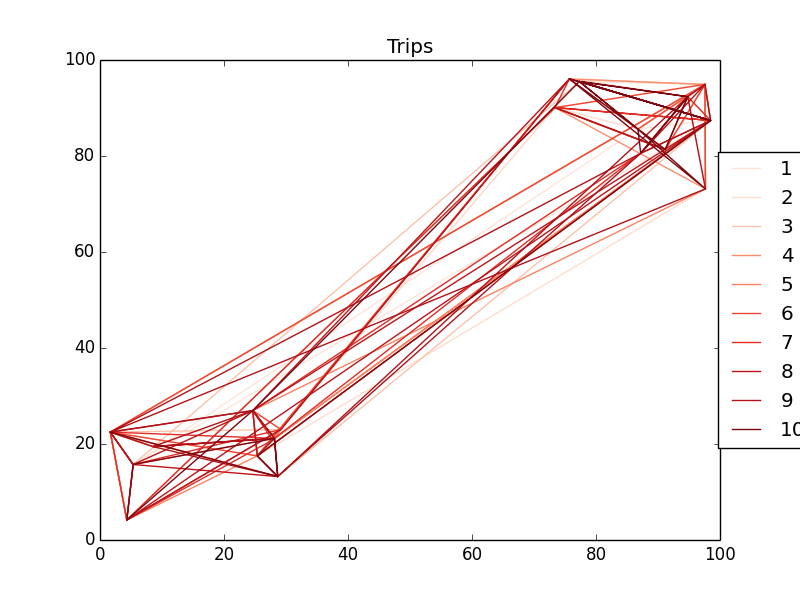
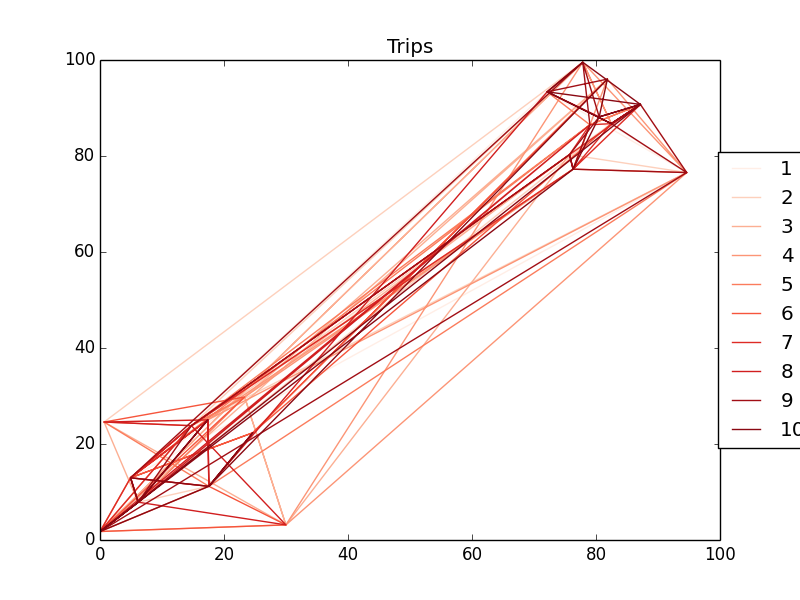
optimization function 잘못됨

Changed region(s): [[0.125, 0.09, 0.9062, 0.9], [0.5938, 0.57, 0.625, 0.6], [0.5625, 0.6, 0.5938, 0.63]]

diff --git a/DataGenerator.py b/DataGenerator.py
@@ -107,15 +107,28 @@ class DataGenerator:
                     return [False, 0]
                 else : # shuttle not late / don't care
                     slack += (destTime - t)
+
+        if t == t0 : t0 -= 1
         return [True, slack/(t-t0)]
 
     def getCost(self, schedule):
         totSlack = self.n
+        reqs = schedule.rejects[:]
         for shuttle in schedule.shuttles :
+            travle = (shuttle.before + shuttle.trip)
+            for r in travle :
+                ar = abs(r)
+                if travle.index(ar) >= travle.index(-ar):
+                    return 2.0 * self.n
+            reqs += travle
+
             ableS = self.shuttleAbleS(shuttle)
             if not ableS[0] :
                 return 2.0*self.n
             totSlack += ableS[1]
+
+        for r in reqs :
+            if reqs.count(r) != 1 : return 2.0*self.n + 0.01*abs(r)
 
         return len(schedule.rejects) + self.n/totSlack
 
@@ -157,6 +170,8 @@ class DataGenerator:
                         continue # insert is failed
                     else :
                         shuttles[jdx].trip = copy.deepcopy(ntrip)
+                        shuttle.trip.remove(r)
+                        shuttle.trip.remove(-r)
                         mark += [r, -r]
                         break
 
@@ -356,14 +371,12 @@ class DataGenerator:
 
         # optimize
         if opt :
-            re = self.optimize(routes, t)
-            while re : re = self.optimize(routes, t)
+            self.optimize(routes, t)
             for r in schedule.rejects:
                 for i in range(len(routes)):
                     k = self.mergeTrips(routes[i].trip, [r, -r])
                     if k != None:
                         routes[i].trip = k[:]
-                        schedule.rejects.remove(r)
                         break
         return Schedule(routes, schedule.rejects)
 
@@ -427,14 +440,12 @@ class DataGenerator:
 
         # optimize
         if opt :
-            re = self.optimize(routes, t)
-            while re : re = self.optimize(routes, t)
+            self.optimize(routes, t)
             for r in schedule.rejects:
                 for i in range(len(routes)):
                     k = self.mergeTrips(routes[i].trip, [r, -r])
                     if k != None:
                         routes[i].trip = k[:]
-                        schedule.rejects.remove(r)
                         break
         return Schedule(routes, schedule.rejects)
 
@@ -447,7 +458,7 @@ class DataGenerator:
         # GA operating is already done, respect previous schedule
         already = []
         for shuttle in schedule.shuttles:
-            already += shuttle.trip + shuttle.before
+            already += (shuttle.trip + shuttle.before)
 
         reqs = list(enumerate(self.requests[:]))
         requests = list(filter(lambda req: ((req[0] + 1) not in already) and (req[1][4] <= t), reqs))
@@ -500,14 +511,12 @@ class DataGenerator:
 
         # optimize
         if opt :
-            re = self.optimize(routes, t)
-            while re : re = self.optimize(routes, t)
+            self.optimize(routes, t)
             for r in schedule.rejects:
                 for i in range(len(routes)):
                     k = self.mergeTrips(routes[i].trip, [r, -r])
                     if k != None:
                         routes[i].trip = k[:]
-                        schedule.rejects.remove(r)
                         break
         return Schedule(routes, schedule.rejects)
 
@@ -556,22 +565,29 @@ class DataGenerator:
                         genes[j].mutation(i1, i2)
 
                 # Optimization
-                for j in range(Ngene):
-                    if self.getCost(genes[j]) < INF:
-                        genes[j] = self.optimizeGA(genes[j])
+                for j in range(Sgene, Ngene):
+                    self.optimize(genes[j].shuttles, 0)
+
+                    for r in genes[j].rejects:
+                        for idx in range(len(genes[j].shuttles)):
+                            k = self.mergeTrips(genes[j].shuttles[idx].trip, [r, -r])
+                            if k != None:
+                                genes[j].shuttles[idx].trip = k[:]
+                                break
 
                 genes.sort(key=lambda gene: self.getCost(gene))
-
                 for j in range(Ngene - 1, 3, -1):
                     if genes[j] == genes[j - 4]:
                         if len(genes) <= Sgene:
                             break
                         del genes[j]
+
                 costs.append(self.getCost(genes[0]))
                 if (costs[i] > costs[i + 1]):
-                    print("{}% improved | {}".format((1 - (costs[i + 1] / costs[i])) * 100,
-                                                     len(genes[0].rejects)))
+                    print("{}% improved | {}".format((1 - (costs[i + 1] / costs[i])) * 100, len(genes[0].rejects)))
                 if costs[i+1] >= INF :
+                    for i in range(Sgene) :
+                        genes[i] = self.generateEDF(dumy, 0)
                     genes[0] = copy.deepcopy(best)
                     print('Detact : GA ERROR -> fix state')
 
@@ -603,24 +619,3 @@ class DataGenerator:
             else:
                 t -= self.ST[requestidx][i]
         return self.n - 1
-
-    def optimizeGA(self, schedule):
-        rejects = schedule.rejects
-        shuts = copy.deepcopy(schedule.shuttles)
-
-        for i in range(len(shuts)-1, -1, -1):
-            for j in range(i):
-                k = self.mergeTrips(shuts[j].trip, shuts[i].trip)
-                if k != None:
-                    shuts[j].trip = k[:]
-                    del shuts[i]
-                    break
-        for r in rejects:
-            for i in range(len(shuts)):
-                k = self.mergeTrips(shuts[i].trip, [r, -r])
-                if k != None:
-                    shuts[i].trip = k[:]
-                    rejects.remove(r)
-                    break
-
-        return Schedule(shuts, rejects)

diff --git a/Schedule.py b/Schedule.py
@@ -81,9 +81,9 @@ class Schedule:
     def crossover(self, other):
         # only when t = 0 : there are no servicing process
         # shut.loc = depot | shut.before = [] | *rejects is not empty*
-        reqs = [] + self.rejects # whole reqs which in schedule
+        reqs = self.rejects[:] # whole reqs which in schedule
         for shut in self.shuttles:
-            reqs += shut.trip
+            reqs += (shut.before+shut.trip)
 
         shuts1 = copy.deepcopy(self.shuttles)
         shuts2 = copy.deepcopy(other.shuttles)
@@ -95,7 +95,7 @@ class Schedule:
             contained += (shut.before + shut.trip)
 
         for shut in shuts2:
-            ntrip = list(filter(lambda r: r not in contained, shut.trip))
+            ntrip = list(filter(lambda r : r not in contained, shut.trip))
             if len(ntrip) > 0:
                 nshut = Shuttle(shut.loc, ntrip, [], 0)
                 retshuts.append(nshut)

diff --git a/Simulator.py b/Simulator.py
@@ -135,6 +135,9 @@ class Simulator:
         print(len(schedule.shuttles))
         for shuttle in schedule.shuttles :
             print(shuttle.before, shuttle.trip, self.DG.checkAble(shuttle))
+        if self.DG.getCost(schedule) >= 2.0*self.n :
+            print('ERROR : Duplicate {}'.format(self.DG.getCost(schedule)))
+            return 0
         print('_____________________\n')
 
         serviced = schedule.getServiced(self.n)
@@ -171,6 +174,7 @@ if __name__ == "__main__":
     off = False
     opt = True
     S = Simulator(MapType='clust', ReqType='CS2')
+    if opt : print('opt is running')
     for i in range(n) :
         simul(S, i, 'EDF', off, opt)
         #simul(S, i, 'EDF', True, opt)
